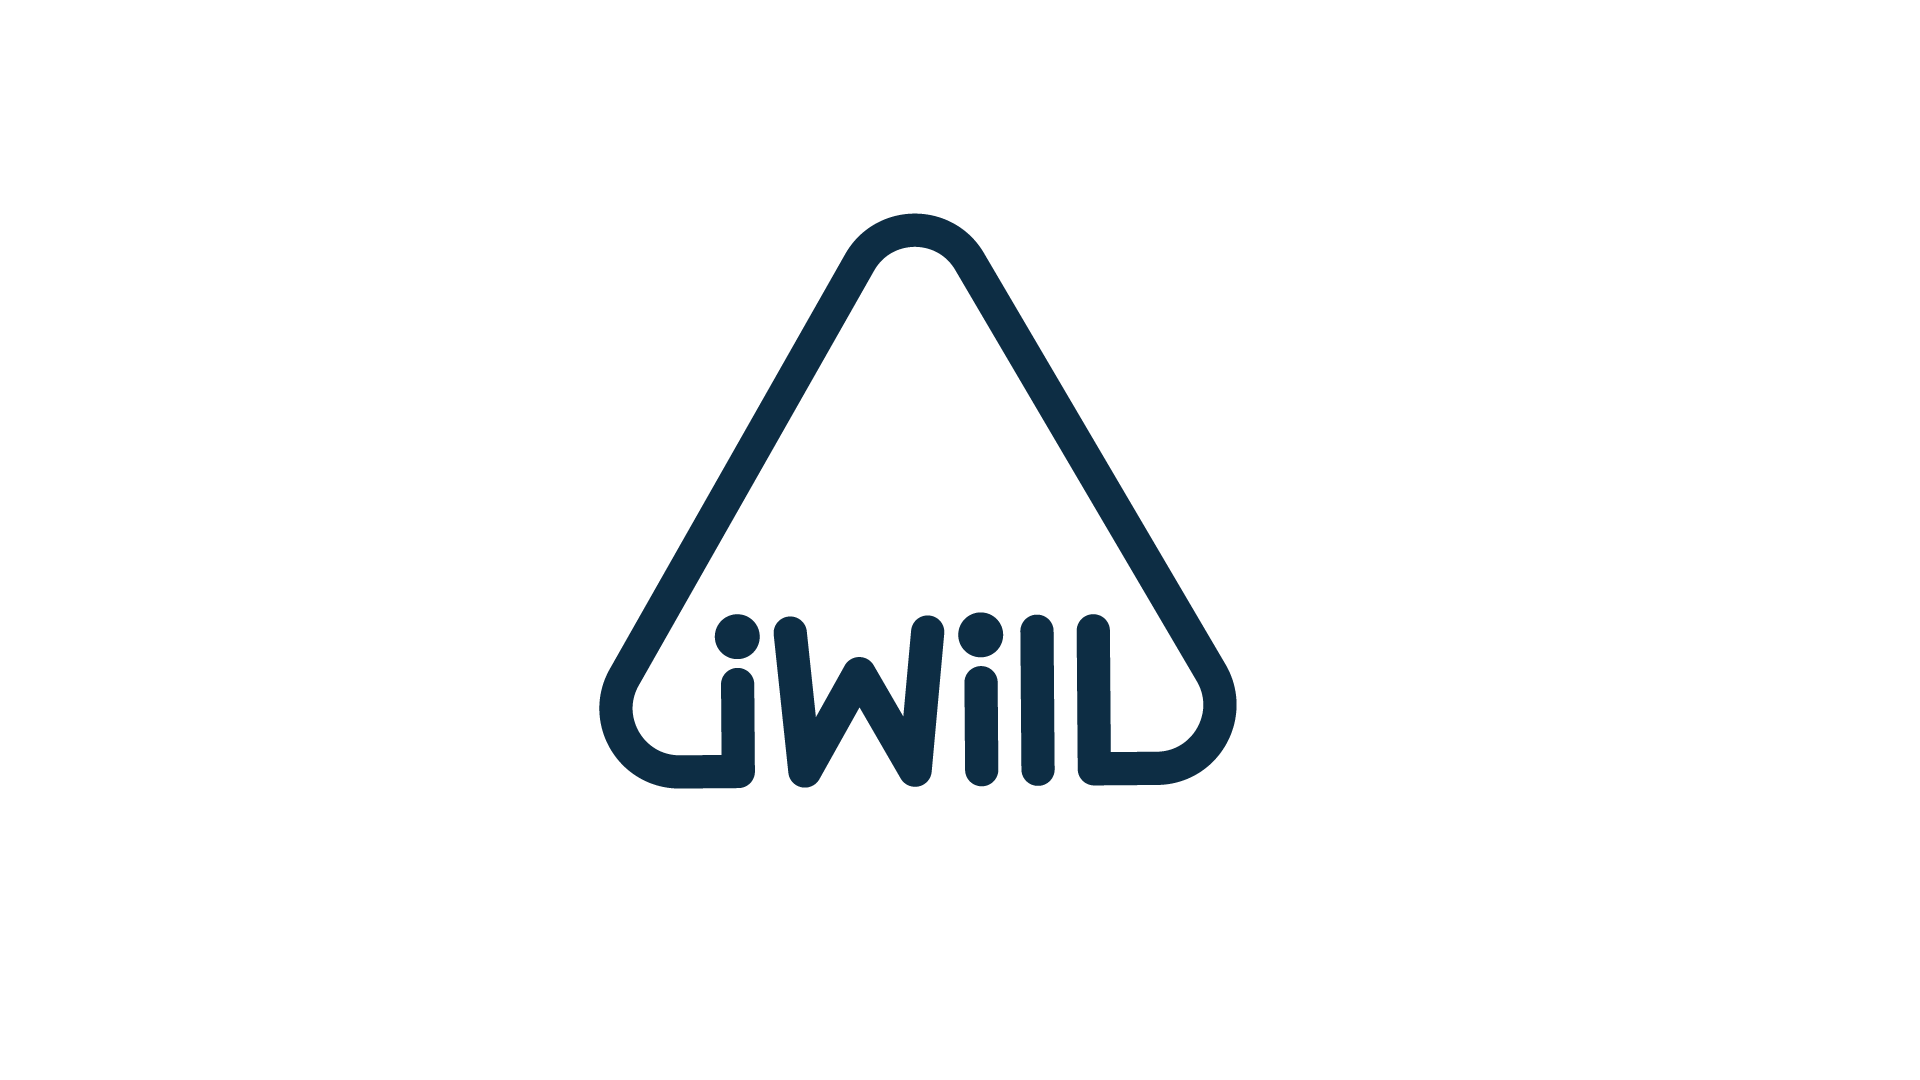
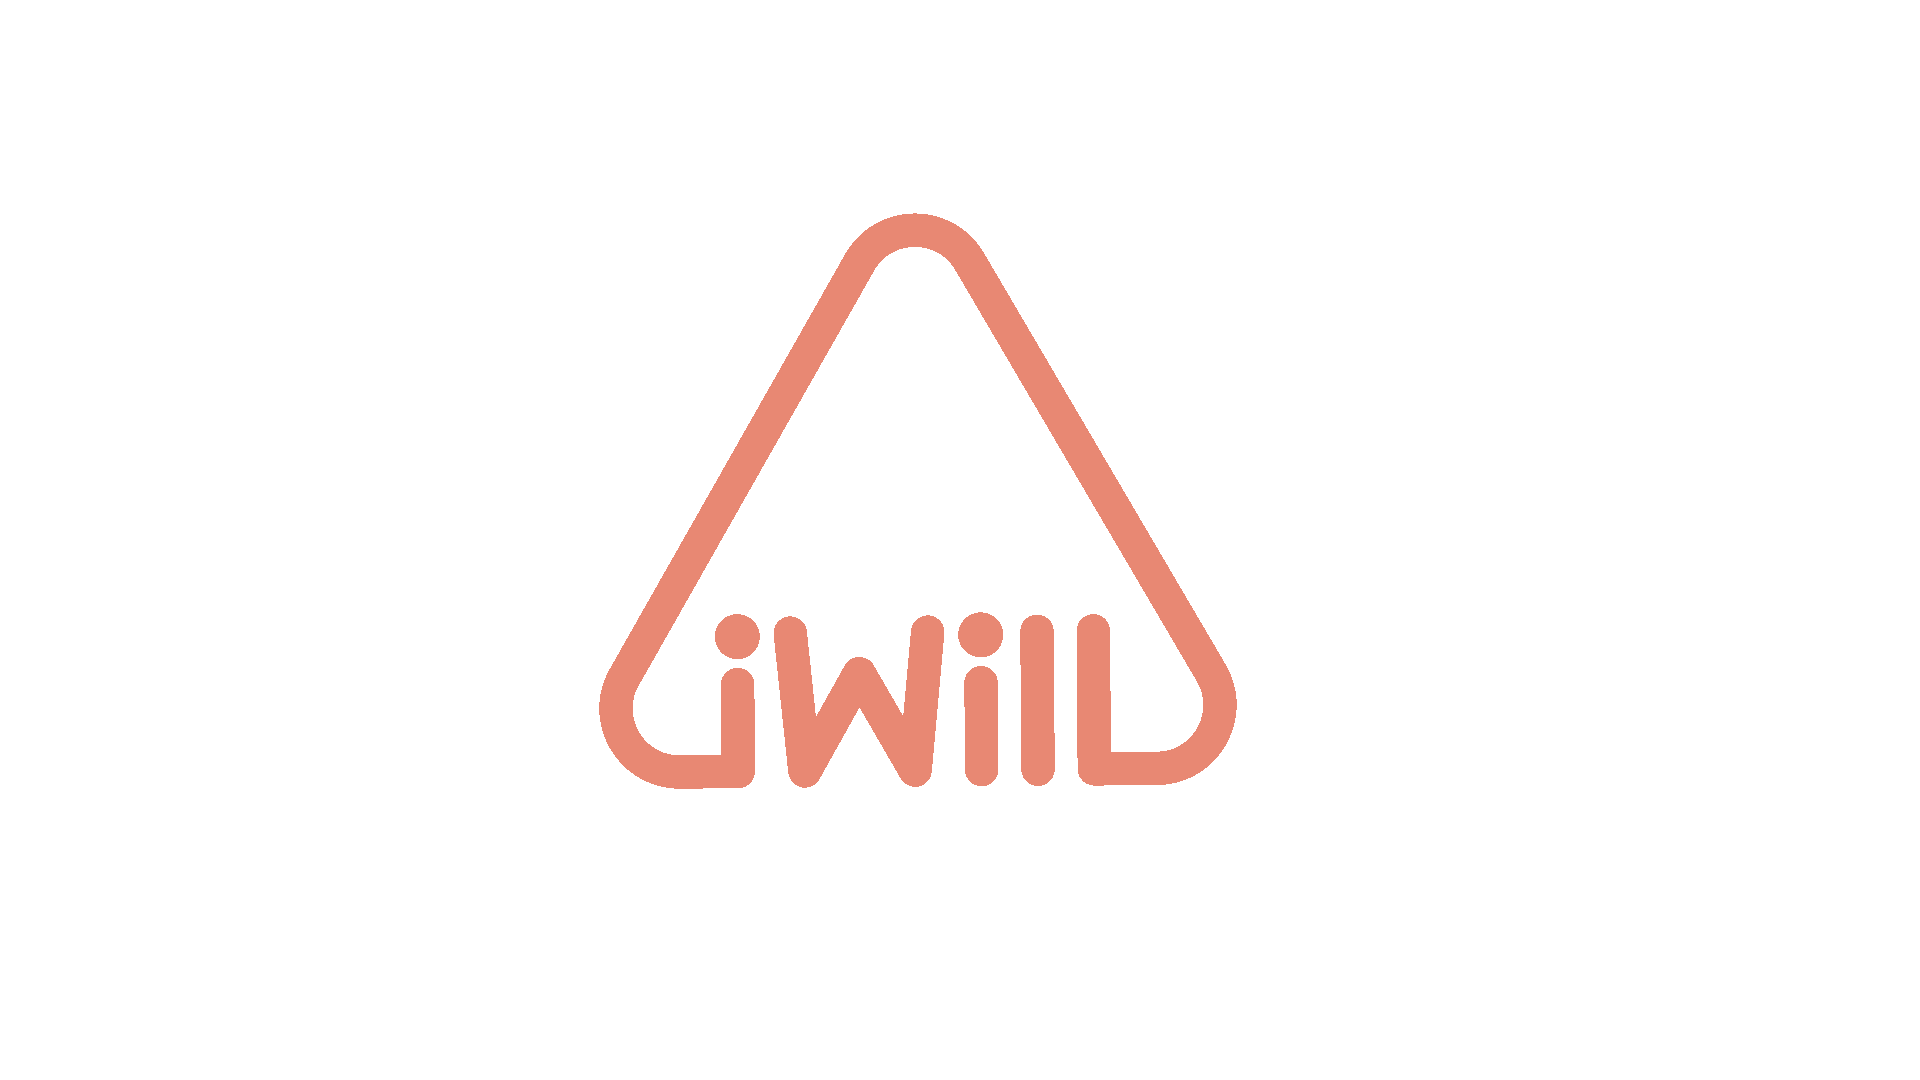
Dark mode version

Changed region(s): [[0.3125, 0.1833, 0.6562, 0.7333]]

diff --git a/ProfileScreen/Profile.js b/ProfileScreen/Profile.js
@@ -24,7 +24,7 @@ const Profile = ({ navigation }) => {
 
   return (
     <LinearGradient
-      colors={["#ffffff", "#cfd9df"]}
+      colors={["#5B5E5A", "#5B5E5A"]}
       start={[0.1, 0.1]}
       style={styles.linearGradient}
     >
@@ -34,7 +34,7 @@ const Profile = ({ navigation }) => {
           <FontAwesome
             name="sign-out"
             size={35}
-            color="black"
+            color="#E88873"
             onPress={() => {
               navigation.replace("SignIn");
             }}
@@ -43,7 +43,7 @@ const Profile = ({ navigation }) => {
           <AntDesign
             name="edit"
             size={35}
-            color="black"
+            color="#E88873"
             onPress={() => navigation.navigate("EditProfile")}
           />
         </View>
@@ -67,7 +67,7 @@ const Profile = ({ navigation }) => {
             {authStore.user?.fullname || "Name"}
             {/* {fetchedProfile.fullname} */}
           </Text>
-          <Text style={[styles.text, { color: "#AEB5BC", fontSize: 14 }]}>
+          <Text style={[styles.text, { color: "#ffffff", fontSize: 14 }]}>
             {/* onChangeText={(value) => setUser({ ...user, dateOfBirth: value })} */}
             {authStore.user?.dateOfBirth || "MM/DD/YYYY"}
             {/* {user.dateOfBirth} */}
@@ -83,7 +83,10 @@ const Profile = ({ navigation }) => {
             <View style={styles.activityIndicator}></View>
             <View style={{ width: 250 }}>
               <Text
-                style={[styles.text, { color: "#41444B", fontWeight: "300" }]}
+                style={[
+                  styles.text,
+                  { color: "#E0E0E0", fontWeight: "300", textAlign: "center" },
+                ]}
               >
                 <Text style={{ fontWeight: "400" }}>
                   {authStore.user?.username || "Username"}
@@ -96,7 +99,10 @@ const Profile = ({ navigation }) => {
             <View style={styles.activityIndicator}></View>
             <View style={{ width: 250 }}>
               <Text
-                style={[styles.text, { color: "#41444B", fontWeight: "300" }]}
+                style={[
+                  styles.text,
+                  { color: "#E0E0E0", fontWeight: "300", textAlign: "center" },
+                ]}
               >
                 <Text style={{ fontWeight: "400" }}>
                   {" "}
@@ -122,7 +128,7 @@ const styles = StyleSheet.create({
   },
   text: {
     fontFamily: "sans-serif", //original "HelveticaNeue" caused error
-    color: "#52575D",
+    color: "#E0E0E0",
     fontSize: 18,
     // marginTop: 15,
   },
@@ -219,11 +225,12 @@ const styles = StyleSheet.create({
     marginBottom: 16,
   },
   activityIndicator: {
-    backgroundColor: "#CABFAB",
-    padding: 4,
+    // backgroundColor: "#CABFAB",
+    // padding: 1,
     height: 12,
     width: 12,
     borderRadius: 6,
+    alignItems: "flex-start",
     // marginBottom: 50,
     marginRight: 20,
   },

diff --git a/navigation/TabBar.js b/navigation/TabBar.js
@@ -10,7 +10,7 @@ const TabBar = ({ state, navigation }) => {
   const renderColor = (
     // on tab the icon the color change from black to red
     currentTab
-  ) => (currentTab === selected ? "red" : "black");
+  ) => (currentTab === selected ? "#ffffff" : "#333432");
 
   const handlePress = (activeTab, index) => {
     if (state.index !== index) {
@@ -39,7 +39,7 @@ const TabBar = ({ state, navigation }) => {
 const styles = StyleSheet.create({
   wrapper: {
     position: "absolute",
-    bottom: 20,
+    bottom: 0,
     width,
     alignItems: "center",
     justifyContent: "center",
@@ -47,9 +47,10 @@ const styles = StyleSheet.create({
   container: {
     flexDirection: "row",
     justifyContent: "space-between",
-    backgroundColor: "#fff",
-    width: 350,
-    borderRadius: 100,
+    backgroundColor: "#E88873",
+    height: 60,
+    width: 400,
+    // borderRadius: 100,
     elevation: 2,
   },
 });

diff --git a/components/Progress.js b/components/Progress.js
@@ -18,7 +18,7 @@ const progress = () => {
         <ProgressBar
           // style={{ width: 200 }}
           progress={numberOfCompletedTasks / numberOfTasks}
-          color={Colors.tealA700}
+          color={Colors.grey100}
         />
       </View>
     </View>
@@ -49,7 +49,7 @@ const styles = StyleSheet.create({
     fontSize: 23,
     marginBottom: 35,
     fontWeight: "bold",
-    color: "#0D2D44",
+    color: "#E88873",
   },
   linearGradient: {
     width: "100%",
@@ -68,17 +68,18 @@ const styles = StyleSheet.create({
     // paddingVertical: 30,
     width: 350,
     marginTop: 70,
+    color: "#E88873",
 
     // height: 50,
   },
   text_header: {
-    color: "#0D2D44",
+    color: "#E88873",
     fontWeight: "bold",
     fontSize: 30,
     textAlign: "center",
   },
   text_footer: {
-    color: "#0b090a",
+    color: "#E88873",
     fontSize: 18,
   },
 });

diff --git a/components/HabitItem.js b/components/HabitItem.js
@@ -45,6 +45,7 @@ const HabitItem = ({ habit, navigation }) => {
             console.log(habit.completed);
           }}
           style={styles.checkbox}
+          color={"#E0E0E0"}
         />
       </View>
       {/* <MaterialCommunityIcons name="account-details" size={24} color="black" /> */}
@@ -53,9 +54,9 @@ const HabitItem = ({ habit, navigation }) => {
         {habit.name}
 
         <AntDesign
-          name="delete"
-          size={24}
-          color="black"
+          name="minuscircleo"
+          size={18}
+          color="#ffffff"
           style={styles.icon2}
           onPress={() => habitStore.deleteHabit(habit.id, navigation)}
         />
@@ -93,6 +94,7 @@ const styles = StyleSheet.create({
     fontSize: 30,
     alignSelf: "center",
     marginLeft: 50,
+    color: "#E49A88",
     // marginTop: 150,
     // alignItems: "center",
   },

diff --git a/components/HabitList.js b/components/HabitList.js
@@ -23,7 +23,7 @@ const HabitList = ({ navigation }) => {
   ));
   return (
     <LinearGradient
-      colors={["#ffffff", "#cfd9df"]}
+      colors={["#5B5E5A", "#5B5E5A"]}
       start={[0.1, 0.1]}
       style={styles.linearGradient}
     >
@@ -43,7 +43,7 @@ const HabitList = ({ navigation }) => {
             <Ionicons
               name="add-circle-sharp"
               size={60}
-              color="black"
+              color="#E88873"
               onPress={() => navigation.navigate("NewHabitForm")}
             />
           </View>
@@ -138,13 +138,13 @@ const styles = StyleSheet.create({
     height: 550,
   },
   text_header: {
-    color: "#0D2D44",
+    color: "#E88873",
     fontWeight: "bold",
     fontSize: 30,
     textAlign: "center",
   },
   text_footer: {
-    color: "#0b090a",
+    color: "#E49A88",
     fontSize: 18,
   },
   action: {

diff --git a/navigation/Tab.js b/navigation/Tab.js
@@ -5,7 +5,7 @@ import { Feather } from "@expo/vector-icons";
 const Tab = ({ color, tab, onPress, icon }) => {
   return (
     <TouchableOpacity style={styles.container} onPress={onPress}>
-      {icon && <AntDesign name={icon} size={20} color={color} />}
+      {icon && <AntDesign name={icon} size={30} color={color} />}
       <Text style={{ color }}>{tab.name}</Text>
     </TouchableOpacity>
   );

diff --git a/styles.js b/styles.js
@@ -43,7 +43,7 @@ export const ButtonStyled = styled.Text`
 
 export const HabitItemStyled = styled.Text`
   /* color: ${(props) => props.theme.mainColor}; */
-  color: #0b090a;
+  color: #ffffff;
   font-size: 20;
   margin-top: 10;
   margin-bottom: 10;
